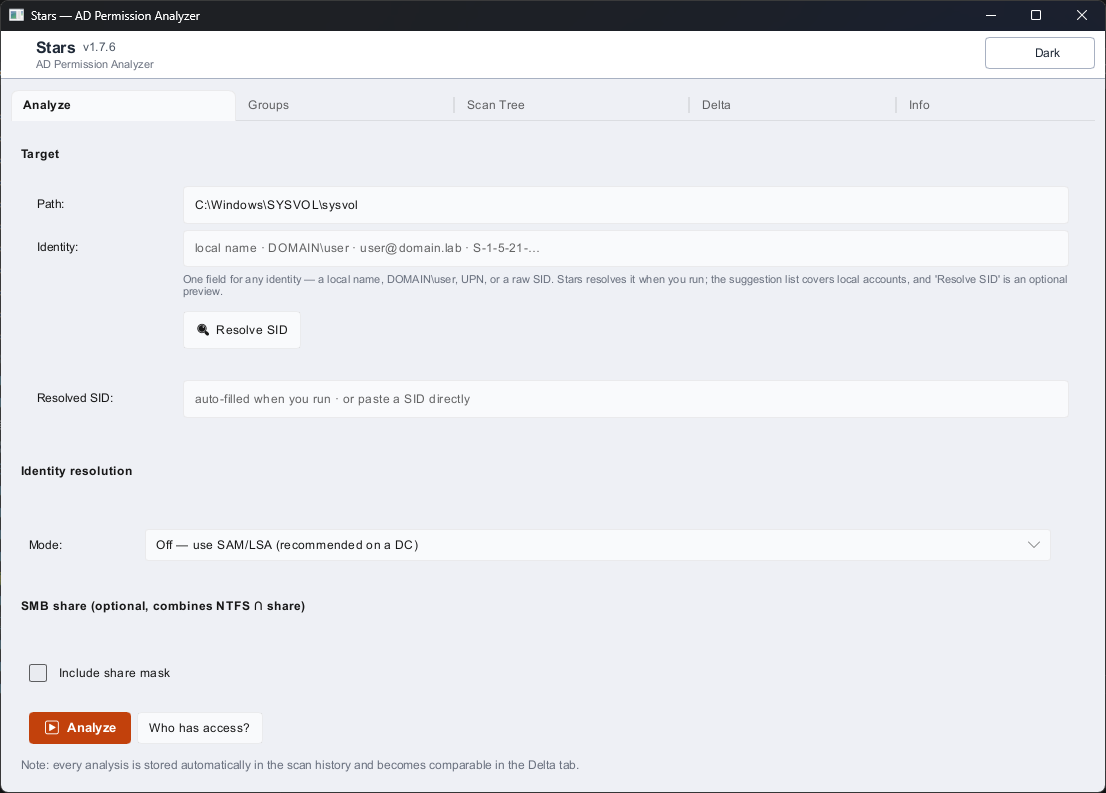
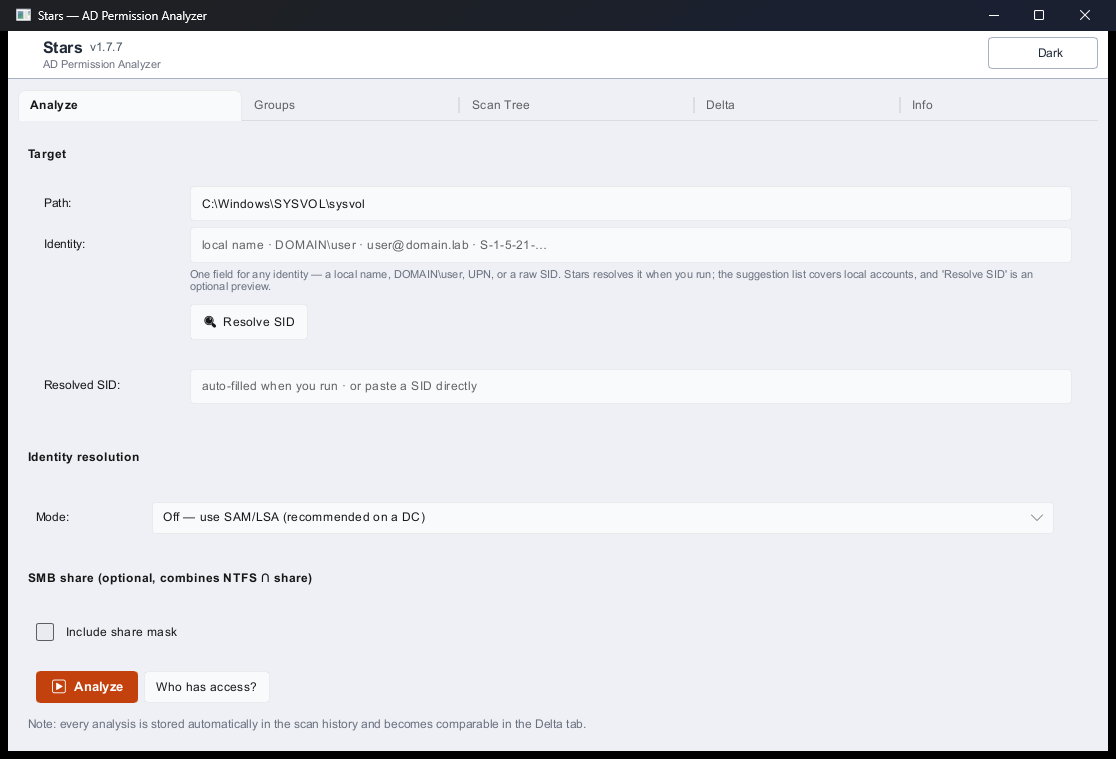
docs: refresh the user-facing documentation for v1.7.7
Full documentation pass ahead of the v1.7.7 final release:

- user-guide.md: version header 1.5.16 -> 1.7.7; installer reference no
  longer pins an old version; tab count made consistent (five tabs);
  reparse description covers the cycle vs duplicate-target distinction
  (ADR 0058); the diagnostic-marker table now includes the sIDHistory
  Evaluated/Present split for users and groups, FSP, Global Catalog and
  trust-boundary markers, with a link to the complete table
- README.md: version references -> v1.7.7; corrected the stale claim
  that SID history "is not yet modelled and produces no marker" (it is
  evaluated into the token since ADR 0056/0059); added sIDHistory to the
  AD analysis capabilities; reparse wording updated (ADR 0058);
  AI-attribution section now names the succession of Claude models
  instead of a single hardcoded one; GUI view list includes Info
- technical-documentation.md: version header -> 1.7.7; the marker-enum
  example now lists all current variants; documented the shared-helper
  classification for sIDHistory markers and the walker-owned reparse
  errors
- index.html (landing page): sIDHistory added to the AD capabilities
- screenshots: stars-analyze-tab.png and stars-groups-tab.png retaken
  from the v1.7.7 build (five tabs, current header). stars-members-view
  still carries the v1.7.7-rc1 header label from this morning - content
  is identical to final, and retaking it needs the lab (currently
[…]

diff --git a/docs/index.html b/docs/index.html
@@ -82,7 +82,7 @@
     <ul class="facts">
       <li><b>NTFS</b> DACLs &mdash; allow/deny, explicit/inherited, special rights</li>
       <li><b>SMB shares</b> &mdash; share permissions and the NTFS &cap; Share result</li>
-      <li><b>Active Directory</b> &mdash; nested groups, primary group, FSPs, disabled accounts</li>
+      <li><b>Active Directory</b> &mdash; nested groups, primary group, FSPs, disabled accounts, <b>sIDHistory</b> (migrated users and groups, evaluated into the token)</li>
       <li><b>Effective rights</b> per user, with risk findings</li>
       <li><b>Reports</b> &mdash; CSV, JSON, HTML; SQLite scan history and delta comparison</li>
       <li><b>Identity resolution</b> &mdash; SAM/LSA, LDAPS, Global Catalog, signed LDAP</li>

diff --git a/README.md b/README.md
@@ -16,7 +16,7 @@ For every user, the tool shows the effective access rights that actually apply t
 
 > **Stars is exclusively a read-and-analyze tool. It does not modify any permissions, groups, or AD objects.**
 
-![Stars Analyze tab (v1.7.6) — target path, identity, resolution mode, SMB share fields, and the two action buttons "Analyze" and "Who has access?"](docs/screenshots/stars-analyze-tab.png)
+![Stars Analyze tab (v1.7.7) — target path, identity, resolution mode, SMB share fields, and the two action buttons "Analyze" and "Who has access?"](docs/screenshots/stars-analyze-tab.png)
 
 ## Contents
 
@@ -116,7 +116,7 @@ Get the current Windows installer from the **[Releases page](https://github.com/
 
 System requirements: Windows 10, Windows 11, or Windows Server. No additional runtime needed.
 
-> ⚠ **Antivirus false positive (every unsigned release, incl. v1.7.6).** Because the installer is **not yet code-signed**, Microsoft Defender — and some other engines — may flag it with a **generic, machine-learning heuristic** such as `Trojan:Win32/Wacatac.C!ml`. The `!ml` suffix means "flagged by an ML model," **not** a match against known malware; `Wacatac` is Defender's catch-all label and is the single most common false positive for new, unsigned, freshly-compiled binaries. It is triggered by the combination of *unsigned + zero reputation + AD/SMB enumeration behaviour* — exactly what a read-only permission auditor legitimately does.
+> ⚠ **Antivirus false positive (every unsigned release, incl. v1.7.7).** Because the installer is **not yet code-signed**, Microsoft Defender — and some other engines — may flag it with a **generic, machine-learning heuristic** such as `Trojan:Win32/Wacatac.C!ml`. The `!ml` suffix means "flagged by an ML model," **not** a match against known malware; `Wacatac` is Defender's catch-all label and is the single most common false positive for new, unsigned, freshly-compiled binaries. It is triggered by the combination of *unsigned + zero reputation + AD/SMB enumeration behaviour* — exactly what a read-only permission auditor legitimately does.
 >
 > **This is a false positive, and you can prove it yourself:** verify the SHA256 (see below) against the `Stars-vX.Y.Z-Setup.exe.sha256` published next to the installer on the release page. A matching hash means the file is bit-for-bit the build GitHub Actions produced from this public source — by definition nothing could have been injected.
 >
@@ -127,13 +127,13 @@ System requirements: Windows 10, Windows 11, or Windows Server. No additional ru
 So you can confirm your download is bit-for-bit identical to the build produced by GitHub Actions:
 
 ```powershell
-$exe = "Stars-v1.7.6-Setup.exe"  # adapt to your version
+$exe = "Stars-v1.7.7-Setup.exe"  # adapt to your version
 $expected = (Get-Content "$exe.sha256").Split("  ")[0]
 $actual   = (Get-FileHash $exe -Algorithm SHA256).Hash.ToLower()
 if ($actual -eq $expected) { "OK — file matches" } else { "MISMATCH — do NOT use" }
 ```
 
-On WSL / Linux / macOS, `sha256sum -c Stars-v1.7.6-Setup.exe.sha256` works directly.
+On WSL / Linux / macOS, `sha256sum -c Stars-v1.7.7-Setup.exe.sha256` works directly.
 
 > **What the hash file gives you — and what it doesn't:** The hash protects against tampered downloads (mirror modification, MITM). It does **not** replace code signing — you verify the authenticity of the source through the GitHub repo itself, not through the hash. Code signing is planned; see [`docs/codesigning.md`](docs/codesigning.md) for status.
 
@@ -159,7 +159,7 @@ It consists of two programs:
 
 | Program | Description |
 |---------|-------------|
-| `adpa-gui.exe` | Graphical interface (GUI) with Analyze, Groups, Scan, and Delta views |
+| `adpa-gui.exe` | Graphical interface (GUI) with Analyze, Groups, Scan Tree, Delta, and Info views |
 | `adpa.exe` | Command-line interface (CLI) for scripting and automation |
 
 Both programs analyze the same data and use the same permission logic.
@@ -200,7 +200,7 @@ Stars reads Windows access control lists (ACLs) directly from the file system:
 - Explicit and inherited entries
 - Inheritance breaks
 - Owner special rule (implicit READ_CONTROL + WRITE_DAC — correctly suppressed when an OWNER RIGHTS / S-1-3-4 entry governs the owner)
-- Reparse points, junctions, and symbolic links (without infinite loops)
+- Reparse points, junctions, and symbolic links — real cycles and duplicate targets (two junctions to one directory) are told apart, each surfaced as its own typed diagnostic rather than looped, silently skipped, or double-counted
 
 #### Active Directory
 
@@ -214,6 +214,7 @@ Stars resolves users and groups via LDAP:
 - Cyclic group structures
 - **Cross-forest trust users (Foreign Security Principals):** a trust user's home-domain group memberships are resolved through the FSP object and credited to the effective permission — the trust-side gap is flagged, never silently dropped
 - **Multi-domain forests via the Global Catalog (`--global-catalog`):** forest-wide identity lookups in a single run; memberships that the GC only partially replicates are marked accordingly
+- **SID history (`sIDHistory`):** the historical SIDs a migrated user **and** its groups carry are read and **evaluated into the token**, so an ACE on an old SID is honoured exactly as in the real Windows logon token; the explanation names each historical SID, and an informational marker makes the evaluation transparent
 
 #### SMB shares
 
@@ -238,7 +239,7 @@ User max.muster → member of "Accounting" → member of "FileServer_Read"
 
 ### How is Stars started?
 
-Stars is distributed as a **setup installer** on the [release page](https://github.com/Birgerson/stars-ad-permission-analyzer/releases) — currently `Stars-v1.7.6-Setup.exe`. The installer places the application under `C:\Program Files\Stars\`, adds a "Stars" start menu entry, and installs **no background services** and **no auto-start components**.
+Stars is distributed as a **setup installer** on the [release page](https://github.com/Birgerson/stars-ad-permission-analyzer/releases) — currently `Stars-v1.7.7-Setup.exe`. The installer places the application under `C:\Program Files\Stars\`, adds a "Stars" start menu entry, and installs **no background services** and **no auto-start components**.
 
 > **Note on code signing:** The installer is currently **not code-signed**. Windows SmartScreen will warn on first launch ("Windows protected your PC — unrecognized publisher"). A code-signing certificate is planned but not yet in place — see [`docs/codesigning.md`](docs/codesigning.md). Until then, you can verify the integrity of the file via the SHA256 hash above.
 
@@ -449,7 +450,7 @@ Stars is deliberately limited to analysis. The following is **not** planned and 
 - [![User Guide](https://img.shields.io/badge/User_Guide-c2410c?style=flat-square)](docs/user-guide.md) — step-by-step walkthrough of the GUI and CLI, every tab explained, identity input, AD binding, marker reading, FAQ. **Start here when using Stars for the first time.**
 - [![Technical Documentation](https://img.shields.io/badge/Technical_Docs-c2410c?style=flat-square)](docs/technical-documentation.md) — how Stars works internally: architecture, crate layering, Principal pipeline, permission engine algorithm, diagnostic marker system, threading model. **Start here when reading or contributing code.**
 - [![Features and limits](https://img.shields.io/badge/Features_and_limits-c2410c?style=flat-square)](docs/features-and-limitations.md) — what Stars reliably covers, what is deliberately out of scope, and how the diagnostic markers (`DomainGroupRecursionIncomplete`, `IdentityNotInConfiguredLdapBase`, …) should be read. **Start here when a finding is unexpected.**
-- [![Known limitations](https://img.shields.io/badge/Known_limitations-c2410c?style=flat-square)](docs/known-limitations.md) — structural gaps. Some are flagged at runtime (FSP, Global Catalog, SAM fallback); **SID history and cross-forest trust filtering / selective authentication are not yet modelled and produce no marker** — results in migrated or multi-forest environments can be wrong without warning. Roadmap tracking for future releases.
+- [![Known limitations](https://img.shields.io/badge/Known_limitations-c2410c?style=flat-square)](docs/known-limitations.md) — structural gaps and how each is surfaced. Most are flagged at runtime (FSP, Global Catalog, SAM fallback); **SID history is now evaluated into the token** for users and groups (ADR 0056 / 0059), so migrated accounts are no longer silently under-reported. The one remaining unflagged gap is **cross-forest trust filtering / selective authentication** (L4) — in multi-forest environments a result can still be over-reported. Roadmap tracking for future releases.
 - [![Audit Criteria](https://img.shields.io/badge/Audit_Criteria-c2410c?style=flat-square)](docs/audit-criteria.md) — a complete write-up of which rules Stars uses to evaluate permissions, which risk rules are implemented, what severities they carry, and which permissions are considered optimal for which role.
 - [![OWNER RIGHTS](https://img.shields.io/badge/OWNER_RIGHTS-c2410c?style=flat-square)](docs/owner-rights-sid-s-1-3-4.md) — OWNER RIGHTS (`S-1-3-4`): the implicit owner grant, how an OWNER RIGHTS ACE caps it, and why naive tools state the owner's effective rights wrong. **A real differentiator of Stars.**
 - [![ADRs](https://img.shields.io/badge/ADRs-c2410c?style=flat-square)](docs/adr/) — historical justifications for individual technology and model decisions.
@@ -519,9 +520,9 @@ Stars persists its scan history in `%APPDATA%\Stars\stars_data.db` (SQLite, sepa
 **Birger Labinsch** — IT Specialist for Application Development / Prompt Engineer
 
 **Implementation (Rust workspace, Slint GUI, engine, resolver, tests, documentation):**
-**Claude Opus 4.7** (Anthropic) — as an AI model under direct guidance and continuous review by Birger Labinsch.
+**Claude** (Anthropic) — successive models over the project's lifetime (Opus 4.x and, most recently, Claude Fable 5), as AI tools under direct guidance and continuous review by Birger Labinsch.
 
-This attribution is deliberately transparent: Birger Labinsch did **not** write the code himself but, as a prompt engineer, directed the entire development process through the AI model — from architectural decisions to individual code changes to tests, bug fixes, and documentation. Every commit in this repository therefore also carries a `Co-Authored-By: Claude Opus 4.7 <noreply@anthropic.com>` line that makes the AI contribution visible per change.
+This attribution is deliberately transparent: Birger Labinsch did **not** write the code himself but, as a prompt engineer, directed the entire development process through the AI models — from architectural decisions to individual code changes to tests, bug fixes, and documentation. Every commit in this repository therefore also carries a `Co-Authored-By: Claude <model> <noreply@anthropic.com>` line that records **which** model made each change, so the AI contribution is visible and attributable per commit.
 
 **Embedded attribution marker (disclosed, not hidden):** the compiled binaries carry a small author / AGPL attribution string embedded in the engine (the `*_ATTRIBUTION` constants in `permission_engine` and `risk_engine`, kept with `#[used]`). Because source comments are stripped at compile time but these constants are not, the author's name and the AGPL-3.0 license travel with the shipped `.exe` and can be recovered from it (e.g. `strings Stars.exe | findstr "Birger Labinsch"`). This is a provenance marker for license enforcement under AGPL-3.0; it is plain data, never read by the permission logic, and changes nothing about how Stars evaluates rights.
 

diff --git a/docs/user-guide.md b/docs/user-guide.md
@@ -1,6 +1,6 @@
 # Stars — User Guide
 
-**Version:** v1.5.16 (2026-06-06)
+**Version:** v1.7.7 (2026-07-04)
 **Audience:** Windows / AD administrators who want to audit NTFS and
 SMB permissions **without changing anything**.
 
@@ -16,7 +16,7 @@ SMB permissions **without changing anything**.
 1. [What can Stars do?](#what-can-stars-do)
 2. [Installation and prerequisites](#installation-and-prerequisites)
 3. [First run — the GUI](#first-run--the-gui)
-4. [The four GUI tabs](#the-four-gui-tabs)
+4. [The five GUI tabs](#the-five-gui-tabs)
 5. [Identity input forms](#identity-input-forms)
 6. [Active Directory binding (optional)](#active-directory-binding-optional)
 7. [Local paths vs. SMB shares](#local-paths-vs-smb-shares)
@@ -53,8 +53,10 @@ To answer them, Stars reads:
   inherited entries, inheritance flags, owner.
 - **SMB share DACL** and combines it restrictively with the NTFS mask
   (Share ∩ NTFS).
-- **Reparse points / junctions / symlinks** — followed; loops are
-  detected and surfaced.
+- **Reparse points / junctions / symlinks** — followed; a real cycle
+  (a junction back into its own parent chain) and a duplicate target
+  (two junctions to the same directory) are told apart and each surfaced
+  as its own typed diagnostic, never a silent skip or a double count.
 - **Long paths** (`\\?\…`, UNC long-path form `\\?\UNC\…`).
 
 For each finding Stars builds **structured diagnostic markers** when
@@ -92,7 +94,9 @@ The full list lives in
 
 Get the installer from the GitHub release page:
 [releases](https://github.com/Birgerson/stars-ad-permission-analyzer/releases).
-Currently recommended: `Stars-v1.7.2-Setup.exe`.
+Always take the newest **`Stars-vX.Y.Z-Setup.exe`** at the top of the list
+(the current release is `v1.7.7`), and — recommended — the matching
+`.sha256` file to verify integrity.
 
 ### Installation
 
@@ -127,10 +131,11 @@ and shows the engine in action.
 
 > **Important on terminology:** "Identity", "Trustees", and "Risk
 > findings" are **not separate tabs**. They are sections inside the
-> four real tabs. Earlier versions of this guide accidentally listed
-> them as five tabs — this is the corrected wording.
+> five real tabs (`Analyze`, `Groups`, `Scan Tree`, `Delta`, `Info`).
 
 ---
+
+<a name="the-five-gui-tabs"></a>
 
 ## The five GUI tabs
 
@@ -306,8 +311,9 @@ Unchanged paths are hidden so only the relevant entries remain.
 ### `Info` tab — about Stars
 
 Shows version, platform status (e.g. "verified against Server 2022
-and 2025"), license, AI authorship (Co-Author Claude Opus), and
-links to the online documentation. No interactive content.
+and 2025"), license, AI authorship (the implementation was carried out
+by Claude models under direction — see [About the project](../README.md#about-the-project)),
+and links to the online documentation. No interactive content.
 
 ---
 
@@ -576,19 +582,35 @@ Every `EffectivePermission` entry in CLI, HTML, or JSON carries a
 `diagnostics` list. A marker means Stars **warned** you that
 something about the computation is uncertain.
 
+The table below covers the markers you meet most often. The **complete**
+list, grouped by visual severity (grey / amber / orange-red) with the
+exact wording, lives in
+[features-and-limitations.md](features-and-limitations.md#structured-diagnostic-markers-per-finding).
+
 | Marker | Severity | Risk `incomplete`? | What it tells you |
 | --- | --- | --- | --- |
 | `NonCanonicalDaclOrder` | medium | no | DACL is not in Windows canonical order. AccessCheck still walks in stored order — result may differ from a canonicalized expectation. |
-| `UnsupportedShareAces` | medium | **yes** | Share DACL contained ACE types the parser could not interpret (object / callback / conditional / vendor-specific). Share mask is potentially incomplete. |
+| `UnsupportedShareAces` / `UnsupportedNtfsAces` | medium | **yes** | The DACL contained ACE types the parser could not interpret (object / callback / conditional / vendor-specific). A hidden Deny among them could change the result — the mask is potentially incomplete. |
 | `DomainGroupRecursionIncomplete` | medium | **yes** | Group resolution ran through SAM/LSA instead of LDAP. `NetUserGetGroups` returns only direct global groups — nested domain groups are not recursively resolved. |
 | `IdentityDisabled` | info | no | Account is flagged disabled in AD via `userAccountControl/UF_ACCOUNTDISABLE`. ACL-theoretical rights are correct, but the account normally cannot authenticate. |
 | `IdentityNotInConfiguredLdapBase` | medium | **yes** | LSA resolved the SID, but the configured LDAP `base_dn` does not index it. Typical in multi-domain forests / trusts — cross-domain memberships may be missing. |
 | `IdentityDisabledStatusUnknown` | info | no | The `disabled` flag could not be determined (e.g. SAM path without `NetUserGetInfo`, or LDAP did not return the user object). |
+| `IdentityResolvedViaForeignSecurityPrincipal` | info | **yes** | A trust-forest principal resolved via an FSP object; its home-domain groups are credited, but its memberships in its own forest are unknown. |
+| `GroupResolutionViaGlobalCatalog` | info | **yes** | Memberships came from a Global Catalog bind; only universal groups replicate fully to the GC, so foreign-domain global / domain-local memberships may be missing. |
+| `SidHistoryEvaluated { count }` | info | no | The identity carries `count` historical SIDs (`sIDHistory`) and Stars **evaluated them into the token** — an ACE on a migrated account's old SID matches like in the real logon token. The explanation path names each one. |
+| `SidHistoryPresent { count }` | high | **yes** | `count` of the identity's historical SIDs could **not** be evaluated (unreadable value, or a report stored before evaluation existed). The real token includes them, so the right may be understated. |
+| `GroupSidHistoryEvaluated { groups, count }` | info | no | `count` historical SIDs carried by `groups` of the token **groups** were evaluated into the token — an ACE on a migrated group's old SID matches for every member. The membership steps name each one. |
+| `GroupSidHistoryPresent { count }` | high | **yes** | `count` historical SIDs on token groups could not be evaluated — the right may be understated. |
+| `TrustBoundaryEffectsNotModeled` | info | no | The identity was resolved across a domain / trust boundary. **If** that boundary is a forest trust, SID filtering and Selective Authentication may reduce the actual access — these runtime trust effects are not modelled (see [known-limitations.md L4](known-limitations.md)). |
 | `IdentityLookupFailed { reason }` | high | **yes** | LDAP identity lookup failed with a technical error (bind, timeout, DC unreachable). The analysis ran with a placeholder identity and an empty token — ACEs targeting domain groups may be missing. `reason` carries the underlying error. |
 | `GroupResolutionFailed { reason }` | high | **yes** | Recursive group resolution failed or was skipped (e.g. cross-domain path with no GC crawl). ACEs on domain groups may be missing. `reason` carries the underlying error. |
 
 **Risk `incomplete = true`** means: the risk finding is structurally
-incomplete — the auditor should additionally inspect manually.
+incomplete — the auditor should additionally inspect manually. Note the
+distinction Stars draws for `sIDHistory`: the `…Evaluated` markers are
+**informational** (the old SIDs *were* honoured, the result is exact),
+while the `…Present` markers are the incompleteness case (something could
+not be evaluated).
 
 **Golden rule:** finding + marker = honest finding. Finding without a
 marker = Stars trusts its computation.

diff --git a/docs/technical-documentation.md b/docs/technical-documentation.md
@@ -1,6 +1,6 @@
 # Stars — Technical Documentation
 
-**Version:** v1.5.16 (2026-06-06)
+**Version:** v1.7.7 (2026-07-04)
 **Audience:** Developers, code reviewers, and security engineers who
 want to understand *how* Stars works internally — not *how to use* it
 (that's the [User Guide](user-guide.md)).
@@ -965,12 +965,30 @@ auditable at all. It works in three layers:
 enum PermissionDiagnostic {
     NonCanonicalDaclOrder { at_index: usize },
     UnsupportedShareAces { count: usize },
+    UnsupportedNtfsAces { count: usize },
     DomainGroupRecursionIncomplete,
     IdentityDisabled,
     IdentityNotInConfiguredLdapBase,
     IdentityDisabledStatusUnknown,
     IdentityLookupFailed { reason: String },
     GroupResolutionFailed { reason: String },
+    OwnerRightsAceApplied,
+    IdentityResolvedViaForeignSecurityPrincipal,
+    GroupResolutionViaGlobalCatalog,
+    PersistedEvidenceDecodeFailed { detail: String },
+    // sIDHistory (ADR 0056 user / ADR 0059 groups): the "…Evaluated"
+    // variants are informational (the old SIDs WERE added to the token);
+    // the "…Present" variants are the incompleteness case (an
+    // unparseable value that could not be evaluated).
+    SidHistoryEvaluated { count: usize },
+    SidHistoryPresent { count: usize },
+    GroupSidHistoryEvaluated { groups: usize, count: usize },
+    GroupSidHistoryPresent { count: usize },
+    TrustBoundaryEffectsNotModeled,
+    // Members-view (reverse Group → members) markers:
+    MembersViaPrimaryGroupIncluded { count: usize },
+    GroupMemberEnumerationIncomplete { reason: String },
+    UniversalGroupCrossDomainMembersNotVisible,
 }
 ```
 
@@ -993,6 +1011,18 @@ The strict rule here: **no marker arises in the engine without a
 corresponding input.** When a marker is missing, you don't debug the
 engine — you debug the caller (CLI / GUI) that failed to forward the
 flags correctly from `engine_flags()`.
+
+Two marker families derive not from `engine_flags()` but from the
+resolved data itself, through **shared helpers on the core model** so the
+engine and the standalone membership view cannot classify them
+differently: `Identity::sid_history_diagnostics()` (the user's
+`sIDHistory`, ADR 0056) and `group_sid_history_diagnostics(&memberships)`
+(the groups' `sIDHistory`, ADR 0059). Each splits into an informational
+`…Evaluated` marker (the historical SIDs were added to the token) and an
+incompleteness `…Present` marker (a value that could not be parsed). The
+reparse cycle / duplicate-target markers (`ReparseCycle`,
+`ReparseDuplicateTarget`, ADR 0058) are the walker's, not the engine's —
+they travel as `WalkError`s on the scan result.
 
 ### 9.3 Risk layer — incomplete classification
 
